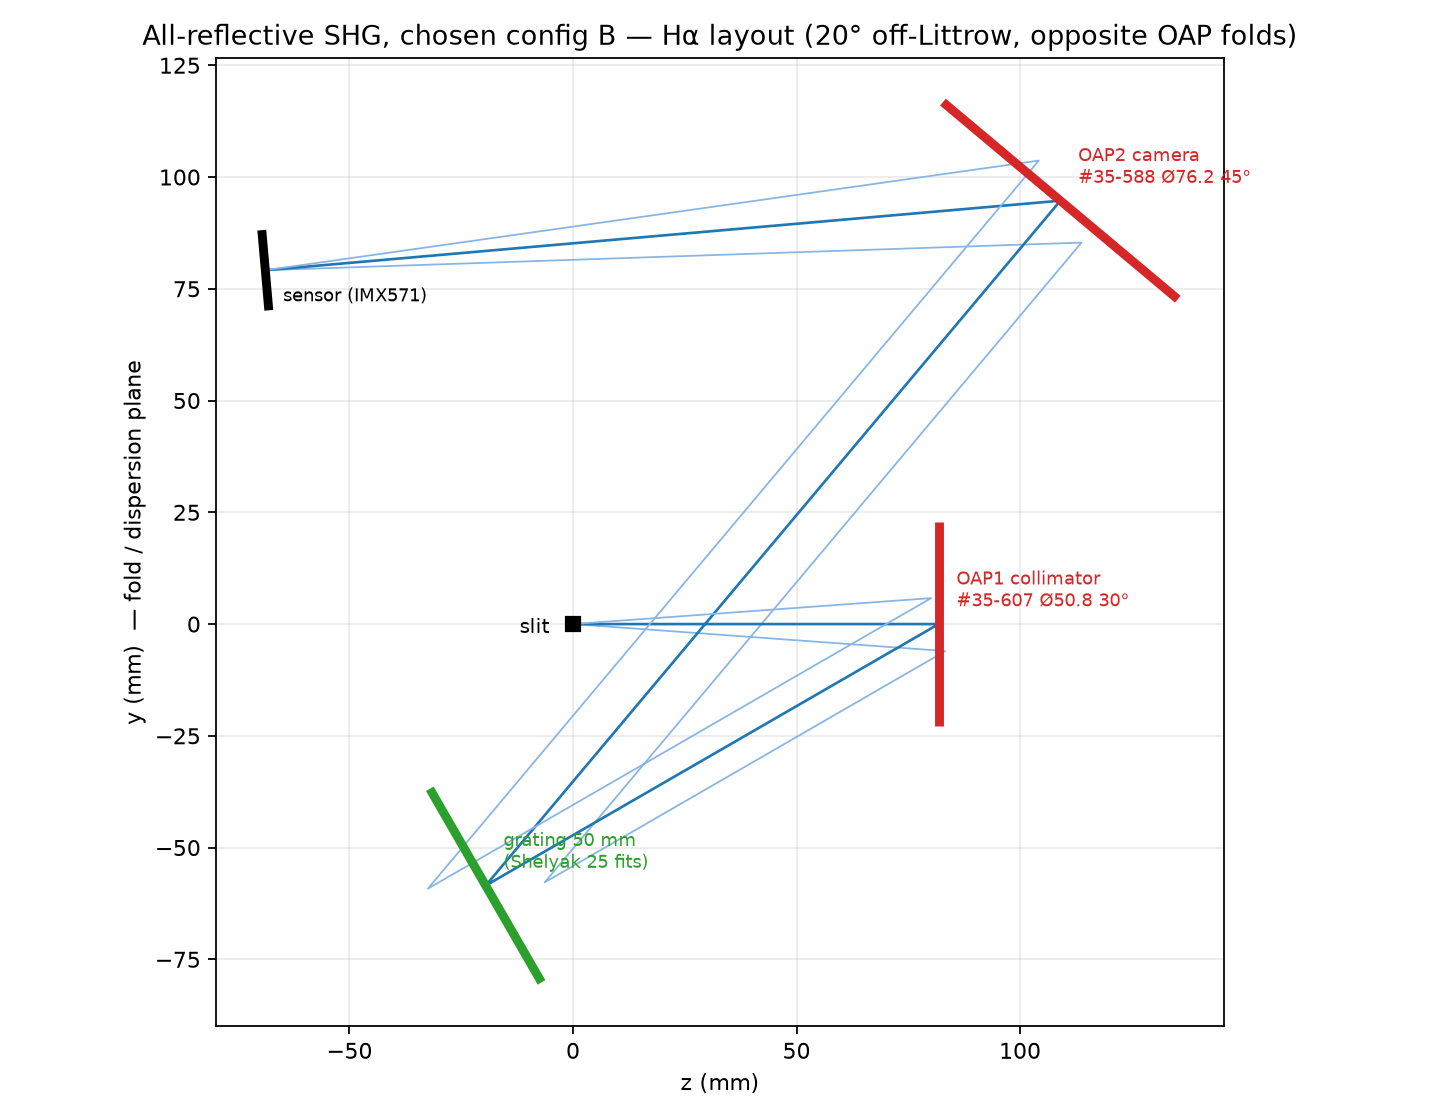
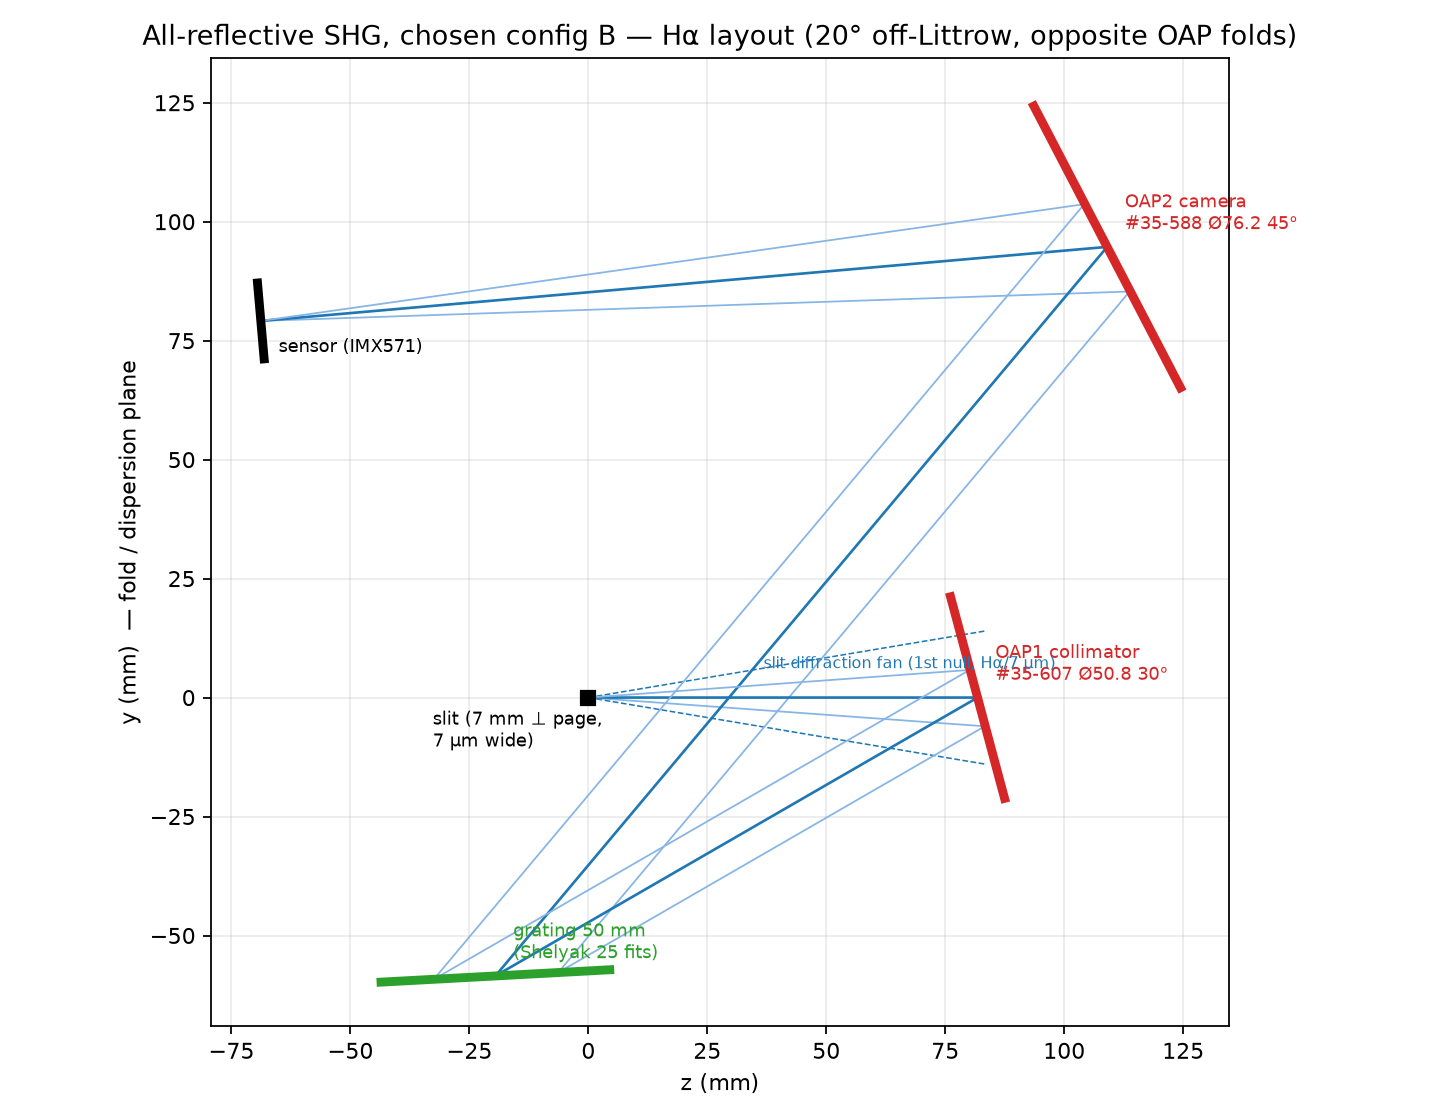
Instrument body v1: raytrace-anchored OpenSCAD blockout
body_export.py emits body_geom.scad from the CHOSEN raytrace geometry
(element positions, beam angles, per-line grating tuning detents).
shg_body.scad builds the deck, angled KM-mount slabs, slit tower with
tilted cartridge pocket + enclosed telescope snout, camera tunnel along
the focused chief, grating turntable with front-face-registered dual-size
cell, per-line tangent posts + arc clamp, and the stray-light vane with
its beam aperture. BODY.md documents architecture, v1 gaps, workflow.

diff --git a/design/plots.py b/design/plots.py
@@ -61,23 +61,41 @@ def layout():
         pts = [yz(p) for p in trace_path(d, ay, lam0)]
         ax.plot([p[0] for p in pts], [p[1] for p in pts],
                 color=col, lw=1.2 if ay == 0 else 0.8, zorder=2)
-    # element footprints (fold-plane tangents)
+    # element footprints along the TRUE surface tangent: mirrors at the
+    # bisector of incoming/outgoing chiefs, grating in its tuned plane
     x = (1.0, 0.0, 0.0)
-    for center, chief, half, name, col in [
-        (d.C1, d.c0, 0.9 * 50.8 / 2, "OAP1 collimator\n#35-607 Ø50.8 30°", "#d62728"),
-        (d.G, d.c1, 25.0, "grating 50 mm\n(Shelyak 25 fits)", "#2ca02c"),
-        (d.C2, d.c2, 0.9 * 76.2 / 2, "OAP2 camera\n#35-588 Ø76.2 45°", "#d62728"),
-    ]:
-        tang = norm(cross(x, chief))
+    def mirror_tangent(d_in, d_out):
+        n = norm(sub(d_out, d_in))          # surface normal (bisector)
+        return norm(cross(x, n))
+    elements = [
+        (d.C1, mirror_tangent(d.c0, d.c1), 0.9 * 50.8 / 2,
+         "OAP1 collimator\n#35-607 Ø50.8 30°", "#d62728"),
+        (d.G, d.gr.t, 25.0, "grating 50 mm\n(Shelyak 25 fits)", "#2ca02c"),
+        (d.C2, mirror_tangent(d.c2, d.df), 0.9 * 76.2 / 2,
+         "OAP2 camera\n#35-588 Ø76.2 45°", "#d62728"),
+    ]
+    for center, tang, half, name, col in elements:
         seg = element_span(center, tang, half)
         ax.plot([s[0] for s in seg], [s[1] for s in seg],
                 color=col, lw=4, solid_capstyle="butt", zorder=3)
         ax.annotate(name, yz(center), textcoords="offset points",
                     xytext=(8, 8), fontsize=8, color=col)
-    # slit + sensor
+    # slit + sensor. In this fold-plane view the slit really is a point:
+    # its 7 mm length runs along x (out of the page); its 7 um width is
+    # invisible at this scale.
     ax.plot(*yz((0.0, 0.0, 0.0)), "ks", ms=6, zorder=4)
-    ax.annotate("slit", (0, 0), textcoords="offset points", xytext=(-24, -4),
-                fontsize=9)
+    ax.annotate("slit (7 mm ⊥ page,\n7 µm wide)", (0, 0),
+                textcoords="offset points", xytext=(-70, -22), fontsize=8)
+    # slit diffraction fan to first null (geometric cone + lambda/w), dashed
+    th_fan = NA + 656.3e-6 / 7e-3
+    for s in (+1, -1):
+        dfan = norm((0.0, s * math.tan(th_fan), 1.0))
+        end = mul(dfan, CFG["rfl1"] / dfan[2] * 1.02)
+        ax.plot([0, yz(end)[0]], [0, yz(end)[1]], color="#1f77b4",
+                lw=0.7, ls="--", zorder=1)
+    ax.annotate("slit diffraction fan (1st null, Hα/7 µm)",
+                (CFG["rfl1"] * 0.45, CFG["rfl1"] * 0.45 * math.tan(th_fan)),
+                fontsize=7, color="#1f77b4")
     tang = norm(cross(x, d.df))
     seg = element_span(d.F2, tang, 8.0)
     ax.plot([s[0] for s in seg], [s[1] for s in seg], color="k", lw=4,

diff --git a/design/body_export.py b/design/body_export.py
@@ -1,0 +1,69 @@
+#!/usr/bin/env python3
+"""Export the CHOSEN raytrace geometry as OpenSCAD constants (body_geom.scad).
+
+Body coordinate convention (matches layout.png):
+  bx = world z   (toward OAP1)
+  by = world y   (fold/dispersion plane)
+  bz = world x   (slit length / grating grooves) -> vertical, deck normal.
+
+Run: .venv/bin/python body_export.py
+"""
+
+import math
+from raytrace import Design, CONFIGS, CHOSEN, dot
+
+cfg = CONFIGS[CHOSEN["config"]]
+d = Design(lines_per_mm=2400.0, order=1, dev=CHOSEN["dev"], s2=CHOSEN["s2"],
+           Lg=CHOSEN["Lg"], Lc=CHOSEN["Lc"], **cfg)
+d.build(656.28)
+
+
+def b(p):  # world (x,y,z) -> body (bx,by)
+    return (p[2], p[1])
+
+
+def bdir(v):
+    n = math.hypot(v[2], v[1])
+    return (v[2] / n, v[1] / n)
+
+
+def ang(v):  # body-plane angle of a direction, degrees, atan2(by,bx)
+    return math.degrees(math.atan2(v[1], v[2]))
+
+
+lines = [
+    "// AUTO-GENERATED by body_export.py from raytrace.py CHOSEN geometry.",
+    f"// config {CHOSEN['config']} dev={CHOSEN['dev']} s2={CHOSEN['s2']} "
+    f"Lg={CHOSEN['Lg']} Lc={CHOSEN['Lc']} (built at Ha 656.28)",
+    f"slitP   = [{b(d.S)[0]:.2f}, {b(d.S)[1]:.2f}];",
+    f"oap1P   = [{b(d.C1)[0]:.2f}, {b(d.C1)[1]:.2f}];",
+    f"gratP   = [{b(d.G)[0]:.2f}, {b(d.G)[1]:.2f}];",
+    f"oap2P   = [{b(d.C2)[0]:.2f}, {b(d.C2)[1]:.2f}];",
+    f"sensP   = [{b(d.F2)[0]:.2f}, {b(d.F2)[1]:.2f}];",
+    f"c0Ang   = {ang(d.c0):.3f};   // slit -> OAP1 chief",
+    f"c1Ang   = {ang(d.c1):.3f};   // OAP1 -> grating (collimated)",
+    f"c2Ang   = {ang(d.c2):.3f};   // grating -> OAP2 (diffracted)",
+    f"dfAng   = {ang(d.df):.3f};   // OAP2 -> sensor (focused)",
+    f"gratNormAng = {ang(d.gr.n):.3f}; // grating normal at Ha tuning",
+    f"rfl1 = {cfg['rfl1']}; rfl2 = {cfg['rfl2']};",
+]
+alpha = math.degrees(math.acos(abs(dot(d.c1, d.gr.n))))
+beta = math.degrees(math.acos(abs(dot(d.c2, d.gr.n))))
+lines.append(f"// Ha incidence alpha={alpha:.1f} beta={beta:.1f}")
+
+# per-line grating normal angles (tuning positions for the rotator detents)
+tunings = []
+for (label, lam, lpmm) in [("CaK", 393.37, 2400.0), ("Ha", 656.28, 2400.0),
+                           ("He1083", 1083.0, 1200.0)]:
+    dl = Design(lines_per_mm=lpmm, order=1, dev=CHOSEN["dev"],
+                s2=CHOSEN["s2"], Lg=CHOSEN["Lg"], Lc=CHOSEN["Lc"], **cfg)
+    dl.build(lam)
+    tunings.append((label, ang(dl.gr.n)))
+lines.append("gratNormAngs = [" +
+             ", ".join(f"{a:.3f}" for (_, a) in tunings) + "];")
+lines.append("// tuning detents: " +
+             ", ".join(f"{l}={a:.1f}" for (l, a) in tunings))
+
+with open("body_geom.scad", "w") as f:
+    f.write("\n".join(lines) + "\n")
+print("\n".join(lines))

diff --git a/design/BODY.md b/design/BODY.md
@@ -1,0 +1,64 @@
+# Instrument body (v1 blockout)
+
+`shg_body.scad` + `body_geom.scad` (AUTO-GENERATED — run
+`.venv/bin/python body_export.py` after any change to `CHOSEN` in
+raytrace.py; never hand-edit positions).
+
+Single source of truth: every optical anchor (slit, OAP faces, grating
+pivot, sensor plane, all beam angles, per-line grating tuning angles) is
+exported from the raytraced CHOSEN geometry. The printed body IS the
+raytrace.
+
+## Architecture
+
+- Flat optical deck parallel to the fold plane; beams at `beamH` (75 mm —
+  chosen so the 150 mm KM plates from mounts/ sit on the deck).
+- Two angled wall slabs carry the printed kinematic bases; face normals
+  are the mirror substrate axes; M5 heat-set pilot holes match the KM
+  base bolt triangle (kmHole = 64 mm half-pitch).
+- `mirrorStack` (45 mm default) = optical face -> wall face. MEASURE the
+  real stack (substrate + backing plate + KM mount + gap) before printing.
+- Slit: cartridge pocket in the tower at the origin, tilted `slitTilt`
+  (10 deg) about vertical so the jaw reflection dumps onto the interior
+  wall, not back up the snout. Pocket sized for a 12 x 22 x 3.2 slide —
+  measure the actual Shelyak slit holder and adjust.
+- Enclosed snout from the telescope flange (front wall) to the slit; the
+  flange bore is 38 mm, adapt to T2/2" with a threaded insert or bonded
+  adapter.
+- Camera tunnel from the sensor plane through the front wall along the
+  focused chief (5 deg off the deck axis); bore 34 mm; bolt a helical
+  focuser + ToupTek adapter to the exterior face. Sensor plane sits at
+  the interior end of the tunnel — set back-focus with the focuser.
+- Grating rotator: deck turntable, vertical steel dowel pivot (8 mm), the
+  rotor registers the grating FRONT face on the pivot-axis plane
+  (thickness-agnostic: 50x50x9.5 direct, Shelyak 25x25x6 via
+  `shelyak_adapter` sleeve). Tangent arm + arc clamp slot.
+- Per-line tuning detents (from body_geom.scad): CaK 68.6 deg / He I
+  81.3 deg / Ha 93.1 deg grating normal -> three tangent-screw posts on
+  the deck; coarse-position the arm at a post, clamp the arc screw, trim
+  with the M4 tangent screw (0.57 deg/turn at armR = 70).
+- Stray-light vane at by = +25 with a single aperture where the
+  diffracted beam crosses; separates the slit/snout region from the
+  camera corridor. Flock or matte-black the interior, especially the
+  dispersion-plane ring around OAP1 (Fourier pass: 2-4% lands there).
+
+## Known v1 gaps (by design, finish in Fusion)
+
+- No lid (flat plate + lip + M3s; add a labyrinth edge for light
+  tightness).
+- Telescope flange is a plain bore + 4 bolts — needs the real T2 adapter
+  decision.
+- Camera flange bolt pattern generic; match the chosen helical focuser.
+- Slit pocket and grating cell dims need verification against the
+  physical parts (slit slide, grating thickness tolerances).
+- Motorized tuning (stepper on a worm ring replacing the tangent posts)
+  is the intended v2 — GhostSun already drives hardware; software line
+  selection is the payoff.
+
+## Workflow
+
+1. Edit optics -> `raytrace.py` (`CHOSEN`), re-run `body_export.py`.
+2. Preview: `openscad shg_body.scad` (part = "preview").
+3. Export STEP/STL per part (`part = "body" | "rotor" | "shelyak_adapter"`)
+   and refine cosmetics in Fusion; keep anchor dimensions from
+   body_geom.scad.
